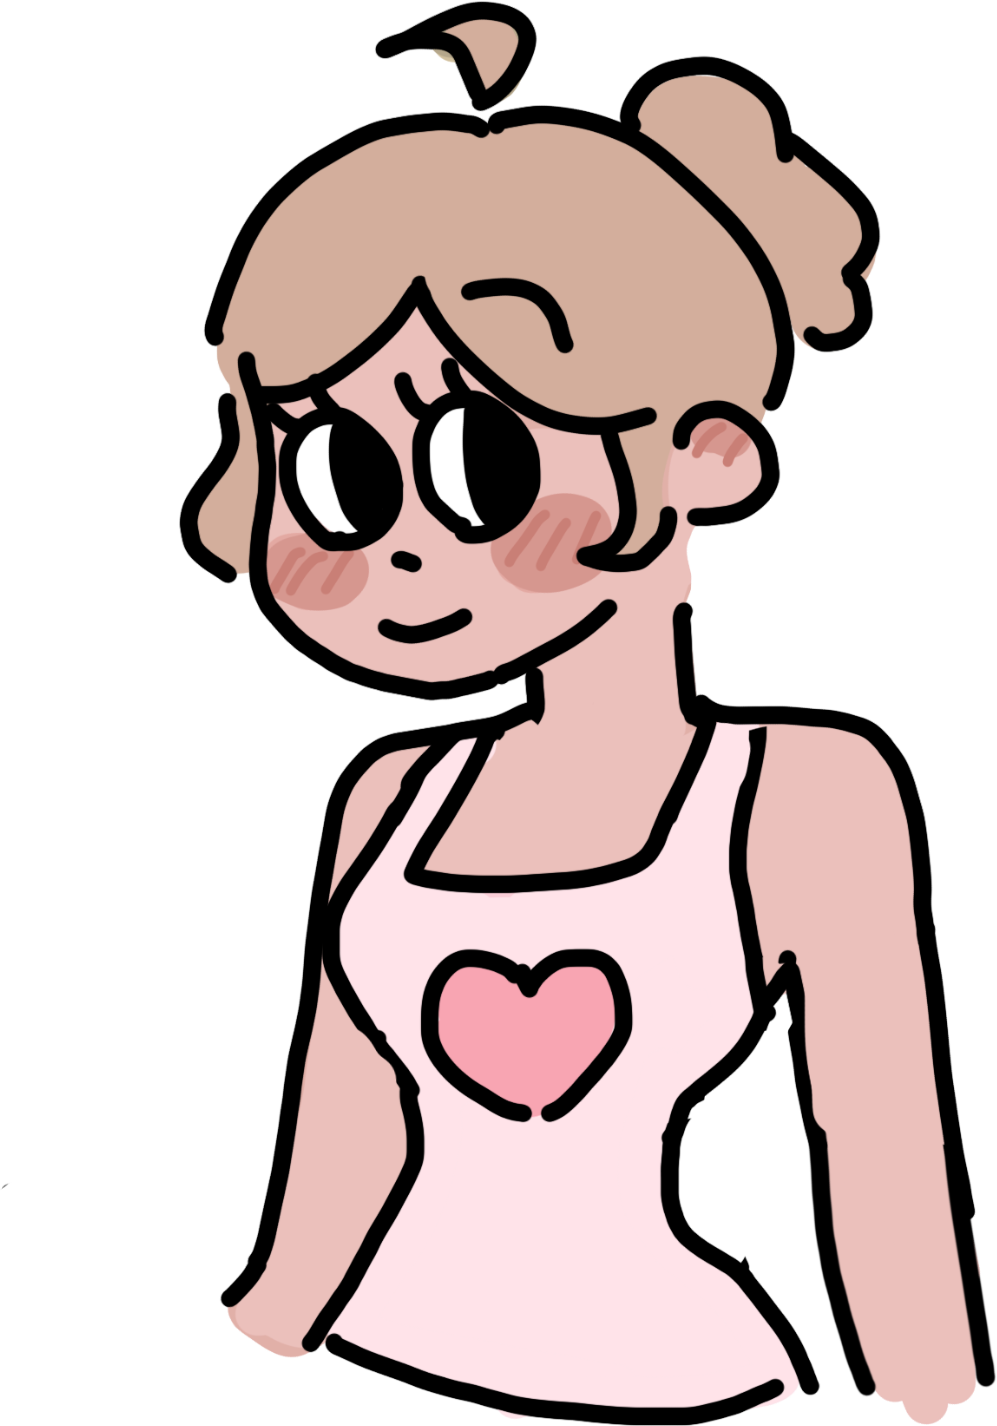
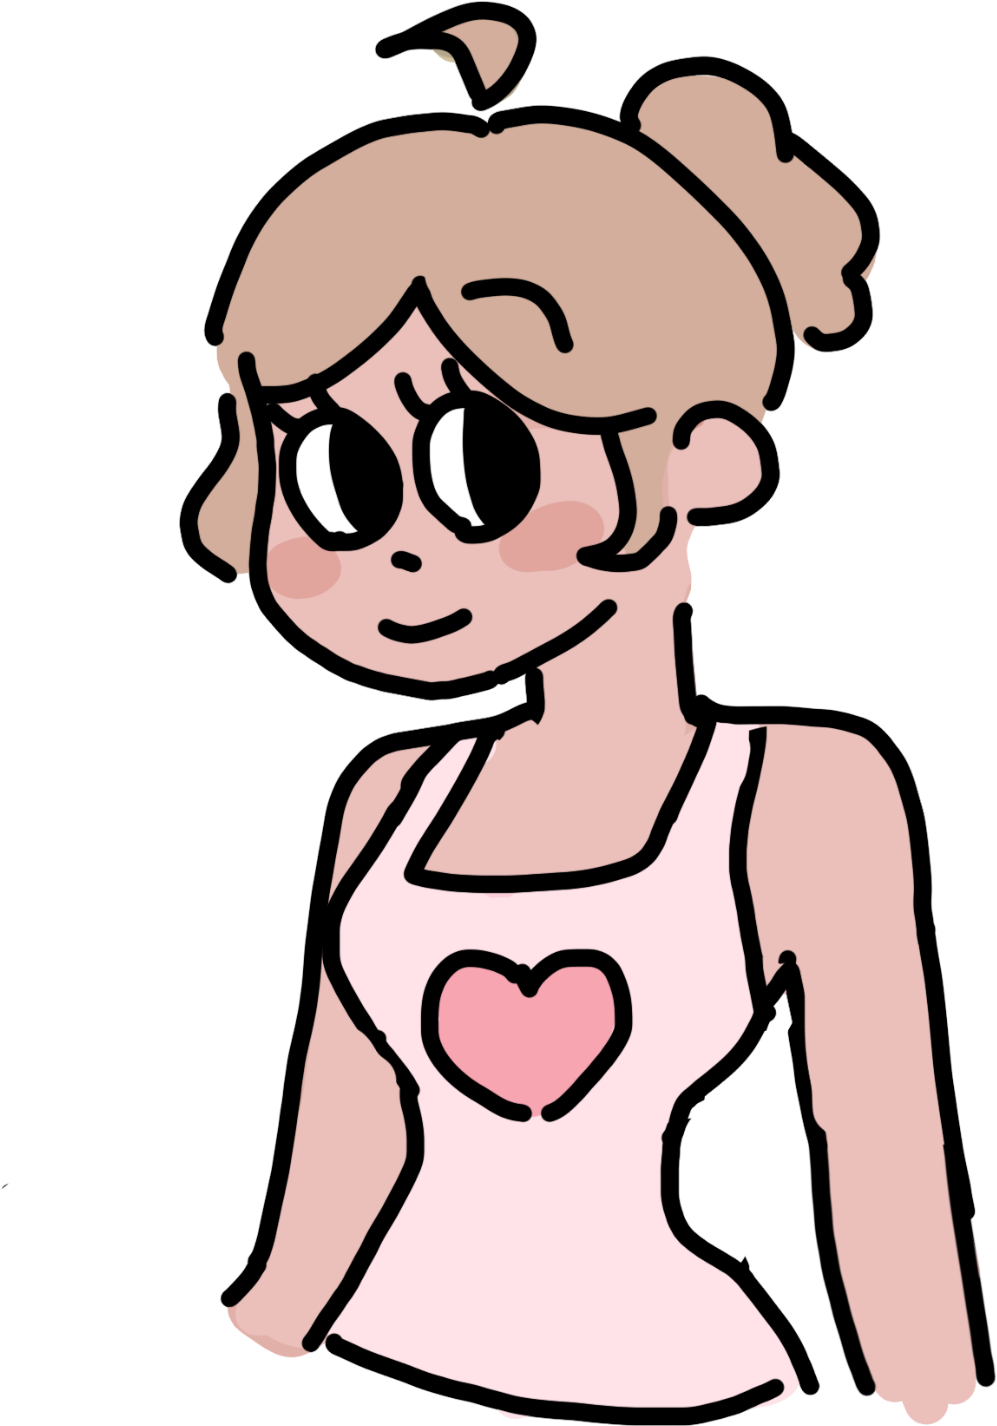
Add files via upload

Changed region(s): [[0.4975, 0.3394, 0.6219, 0.432], [0.2487, 0.3703, 0.3731, 0.432], [0.6841, 0.2777, 0.7462, 0.3394]]

diff --git a/index.html b/index.html
@@ -89,15 +89,25 @@ footer{background:#fff;padding:8px 14px;text-align:center;font:700 13px Arial,sa
 .dialogue-scene .panel{max-width:none;width:100%;margin:0}
 .dialogue-progress{font:700 14px Arial,sans-serif;margin:0 0 12px}
 @media(max-width:680px){.portrait-row{height:260px;min-height:180px}.person-portrait{max-width:48%}.person-portrait.yn-portrait{max-width:40%;height:82%}.dialogue-scene .panel{min-width:0}}
+
+/* The first scene: three hand-drawn sprites and a rough dialogue box. */
+.square-scene{width:min(100%,1050px);display:flex;flex-direction:column;align-items:stretch;gap:0}
+.square-characters{width:100%;height:clamp(230px,48vh,430px);display:flex;align-items:flex-end;justify-content:center;gap:clamp(5px,2vw,28px);border-bottom:3px solid black;background:white;overflow:hidden}
+.square-person{width:30%;height:100%;object-fit:contain;object-position:bottom;transition:opacity .12s}
+.square-person.square-yn{height:70%;width:25%}
+.square-person.not-speaking{opacity:.55}
+.square-scene .panel{max-width:none;width:100%;margin:0}
+.square-place{font:900 16px Arial,sans-serif;text-transform:uppercase}
+@media(max-width:650px){.square-characters{height:270px}.square-person{width:34%}.square-person.square-yn{width:27%;height:70%}}
 </style>
 </head>
 <body>
-<div id="game"><aside id="mission" aria-live="polite"><strong>MISSION !!!</strong><p id="missionText"></p><small id="missionHint"></small></aside><main id="screen"></main><footer>MADE IN KPOPVILLE PAINT (sort of) // DEMO v0.5 <button class="reset" id="reset">Start over</button></footer></div>
+<div id="game"><aside id="mission" aria-live="polite"><strong>MISSION !!!</strong><p id="missionText"></p><small id="missionHint"></small></aside><main id="screen"></main><footer>MADE IN KPOPVILLE PAINT (sort of) // DEMO v0.7 <button class="reset" id="reset">Start over</button></footer></div>
 <script>
 const screen=document.getElementById('screen');
 const KEY='kpopville-demo-save-v1';
 let state={scene:'title',group:null,visited:[],area:'boys'};
-try{let saved=JSON.parse(localStorage.getItem(KEY));if(saved && ['title','intro','choose','arrival','map','neighborhood','house','location','downtown','downtown-place','enhypen-dialogue'].includes(saved.scene)){state={...state,...saved};if(state.scene==='location')state.scene='map';}}catch{}
+try{let saved=JSON.parse(localStorage.getItem(KEY));if(saved && ['title','intro','choose','arrival','map','neighborhood','house','location','downtown','downtown-place','enhypen-dialogue','town-square'].includes(saved.scene)){state={...state,...saved};if(state.scene==='location')state.scene='map';}}catch{}
 function save(){localStorage.setItem(KEY,JSON.stringify(state))}function go(scene){state.scene=scene;save();render()}
 function btn(label,action,cls='primary'){let b=document.createElement('button');b.className=cls;b.textContent=label;b.onclick=action;return b}
 function tag(s){let a=document.createElement('div');a.className='tag';a.textContent=s;return a}
@@ -137,12 +147,53 @@ function showEnhypenDialogue(){
  box.append(nav);scene.append(portraits,box);
  add(tag('ENHYPEN HOUSE'),scene);
 }
+
+const recruitmentLines=[
+ {speaker:'NARRATOR',text:'The manager drops Y/N off in Central Plaza. A crowd of K-poppers immediately surrounds her.',yn:'scared'},
+ {speaker:'Y/N',text:'Um... why is everybody staring at me?',yn:'scared'},
+ {speaker:'SOOBIN',text:'Welcome to Kpopville! You should join TXT. We have five very normal guys and a basement.',yn:'default'},
+ {speaker:'JAY',text:'Hold on. ENHYPEN has seven members. Seven is obviously more than five.',yn:'default',jay:'default'},
+ {speaker:'SOOBIN',text:"That's not how choosing a family works.",yn:'default'},
+ {speaker:'JAY',text:'We also have a mansion. And I can make pancakes.',yn:'default',jay:'smile'},
+ {speaker:'SOOBIN',text:'He burns the pancakes. We have snacks that are edible.',yn:'blush'},
+ {speaker:'Y/N',text:'You guys are really fighting over me...?',yn:'blush'},
+ {speaker:'JAY',text:'So. What do you say? ENHYPEN?',yn:'default',jay:'smile'},
+ {speaker:'SOOBIN',text:'Or TXT? It is YOUR choice.',yn:'default'}
+];
+function showTownSquare(){
+ center();
+ const i=Math.max(0,Math.min(state.squareIndex||0,recruitmentLines.length));
+ const selecting=i===recruitmentLines.length;
+ const line=recruitmentLines[Math.min(i,recruitmentLines.length-1)];
+ const scene=el('section','square-scene');
+ const people=el('div','square-characters');
+ const specs=[['soobin.png','SOOBIN',''],[ynImages[line.yn]||ynImages.default,'Y/N','square-yn'],[line.jay==='smile'?'jay-smile.png':'jay-default.png','JAY','']];
+ specs.forEach(([src,name,cl])=>{
+   const img=document.createElement('img');img.src=src;img.alt=name;
+   img.className='square-person '+cl+(!selecting&&line.speaker!==name?' not-speaking':'');
+   people.append(img);
+ });
+ const box=el('div','panel');
+ box.append(el('div','speaker',selecting?'YOUR CHOICE':line.speaker));
+ box.append(el('p','dialogue',selecting?'Which group should Y/N join?':line.text));
+ if(!selecting)box.append(el('p','dialogue-progress',(i+1)+' / '+recruitmentLines.length));
+ const actions=el('div','nav');
+ if(selecting){
+  [['Join TXT','TXT'],['Join ENHYPEN','ENHYPEN']].forEach(([label,g])=>actions.append(btn(label,()=>{state.group=g;state.visited=[];go('arrival')},g==='TXT'?'secondary':'primary')));
+ }else{
+  actions.append(btn(i===recruitmentLines.length-1?'Choose a group >>':'Next >>',()=>{state.squareIndex=i+1;go('town-square')}));
+ }
+ box.append(actions);scene.append(people,box);
+ add(el('div','square-place','DOWNTOWN / CENTRAL PLAZA'),scene);
+}
+
 const locations={home:{name:'Your mansion',symbol:'[ E ]',caption:'Your new home in Kpopville'},street:{name:'Town square',symbol:'[ ! ]',caption:'Everyone seems to be here'},cafe:{name:'Kpop café',symbol:'[ C ]',caption:'A café with questionable menu items'},neighbors:{name:'Other group’s house',symbol:'[ ? ]',caption:'The neighbors are suspiciously loud'}};
 function locationOpen(key){state.visited=[...new Set([...state.visited,key])];state.current=key;go('location')}
 function updateMission(){
  const tasks={
  title:['Start your adventure','Press Start game.'],
- intro:['Survive the donation','Talk to Mom.'],
+ intro:['Arrive in Kpopville','Watch the donation introduction.'],
+ 'town-square':['Choose your group','Listen to Soobin and Jay, then make your choice.'],
  choose:['Choose a group','Pick TXT or ENHYPEN.'],
  arrival:['Arrive in Kpopville','Click Explore Kpopville.'],
  map:['Explore Kpopville','Click Boyborhood or Girlborhood on the map.'],
@@ -159,9 +210,10 @@ function updateMission(){
 }
 function render(){screen.replaceChildren();updateMission();
 if(state.scene==='title'){center();add(tag('A very unserious adventure'),el('h1','big','Welcome to Kpopville'),el('p','lead','A tiny click-to-explore story game. There are no downloads, no battles, and absolutely no reasonable adults.'));add(btn('Start game',()=>go('intro')));if(state.group)add(btn('Continue saved game',()=>go('map'),'secondary'));}
-else if(state.scene==='intro'){center();add(tag('Prologue: The donation'),stage('MOM?!','DRAW YOUR INTRO SCENE HERE'),panel('MOM','I have some news. I donated you to Kpopville.',[['YOU WHAT?!',()=>go('choose')],['Is this even legal?',()=>go('choose'),'secondary']]));}
-else if(state.scene==='choose'){center();add(tag('Your story, your choice'),el('h1','big','Who will take you in?'),el('p','lead','This changes your home and the characters you meet first.'));let c=el('div','choices');[['ENHYPEN','E'],['TXT','T']].forEach(([name,symbol])=>{let b=el('button','group');b.append(el('span','symbol',symbol),el('strong','',name),el('span','small','Choose this group'));b.onclick=()=>{state.group=name;state.visited=[];go('arrival')};c.append(b)});add(c);}
-else if(state.scene==='arrival'){center();add(tag('Chapter 1: A new address'),stage('KPOPVILLE','DRAW THE CITY HERE'),panel('NARRATOR',`After an incredibly questionable journey, you arrive in Kpopville. The ${state.group} house is waiting for you.`,[['Explore Kpopville',()=>go('map')]]));}
+else if(state.scene==='intro'){center();add(tag('Prologue: The donation'),stage('MOM?!','YOUR FUTURE DONATION VIDEO GOES HERE'),panel('MOM','I donated you to Kpopville. The manager is waiting outside.',[['Continue to Town Square',()=>{state.squareIndex=0;go('town-square')}] ]));}
+else if(state.scene==='choose'){state.scene='town-square';render();}
+else if(state.scene==='town-square'){showTownSquare()}
+else if(state.scene==='arrival'){center();add(tag('Chapter 1: A new address'),stage('KPOPVILLE','DRAW THE CITY HERE'),panel('NARRATOR',`After a very loud argument in Central Plaza, you chose ${state.group}. The group is ready to take you to their house.`,[['Explore Kpopville',()=>go('map')]]));}
 else if(state.scene==='map'){
 center();add(el('p','map-caption','CLICK A NEIGHBORHOOD TO ENTER IT'));
 let m=el('div','worldmap');let img=document.createElement('img');img.src='kpopville-map.png';img.alt='Your hand-drawn Kpopville map';m.append(img);
